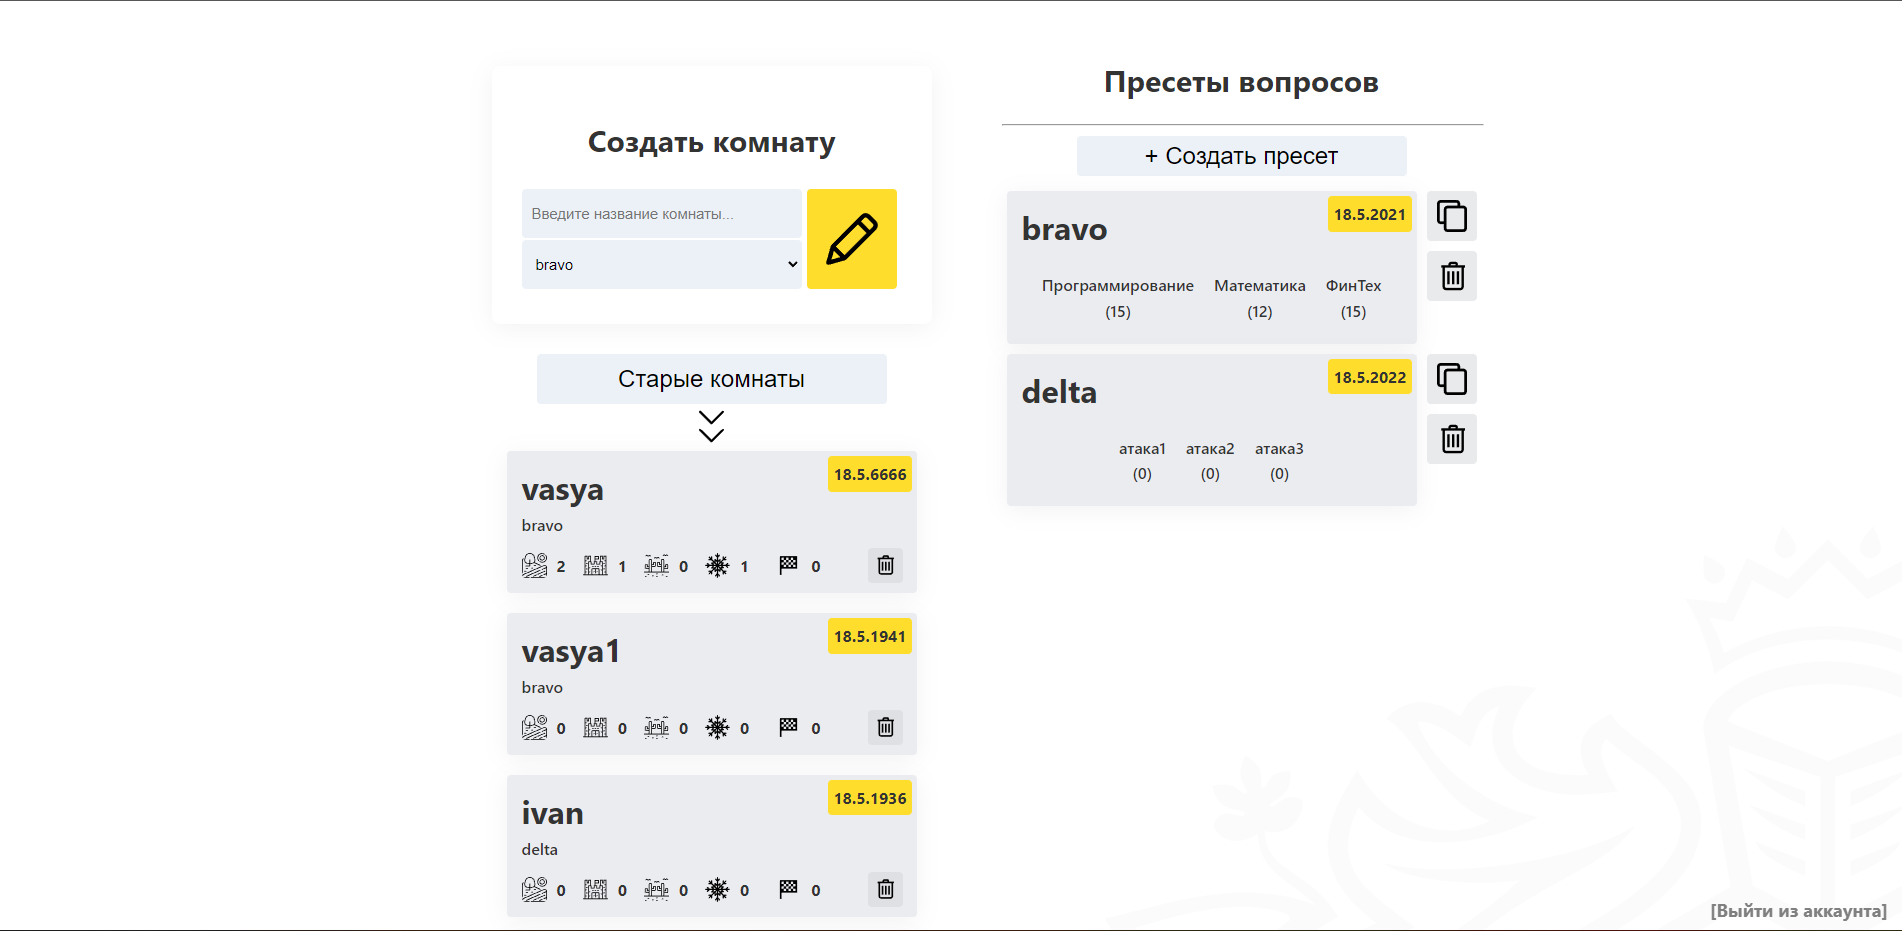
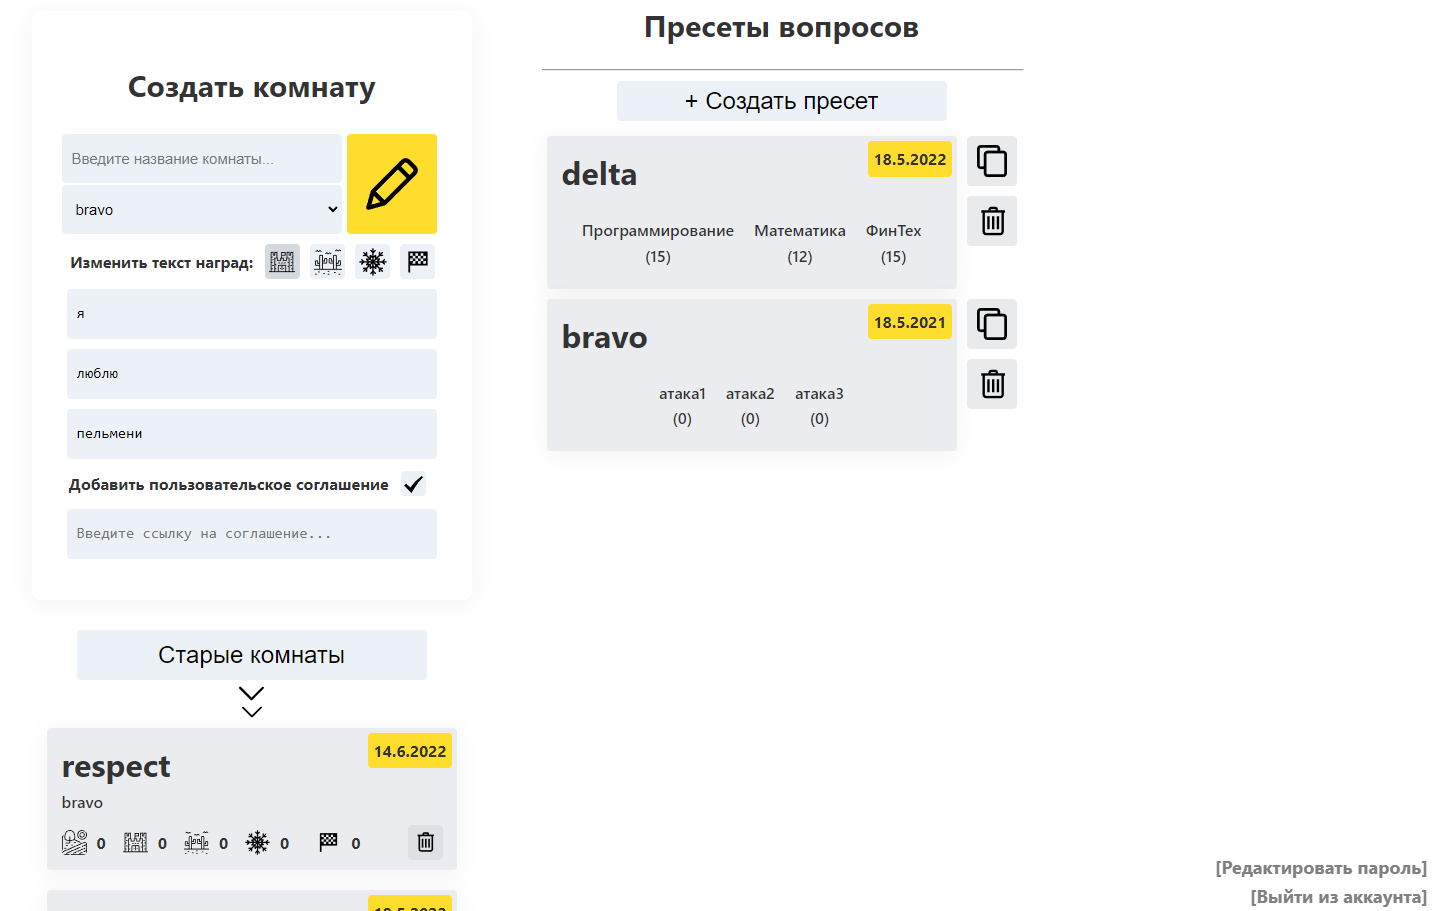
Updated README

diff --git a/README.md b/README.md
@@ -17,10 +17,11 @@ Ordinary login page for several admins preventing access of everyone to website
 
 ## Main Page
 In this main page admin able to go to other 2 pages or exit pressing button in the bottom. <br/>
-On the left side admin can create new room, hide/show old rooms (pressing 'Старые комнаты' button),
+On the left side admin can create new room, add congrats text for winners of game, add user policy, hide/show old rooms (pressing 'Старые комнаты' button),
 go to created rooms or delete them. <br/>
 On the right site there is ability to create new preset (pressing '+ Создать пресет' button), copy/delete 
-existing presets or go to their page for modification by clicking on them.
+existing presets or go to their page for modification by clicking on them. <br/>
+At the bottom admin can exit his account or change the password
 
 ![MainPage](src/images/mainPage.png)
 
